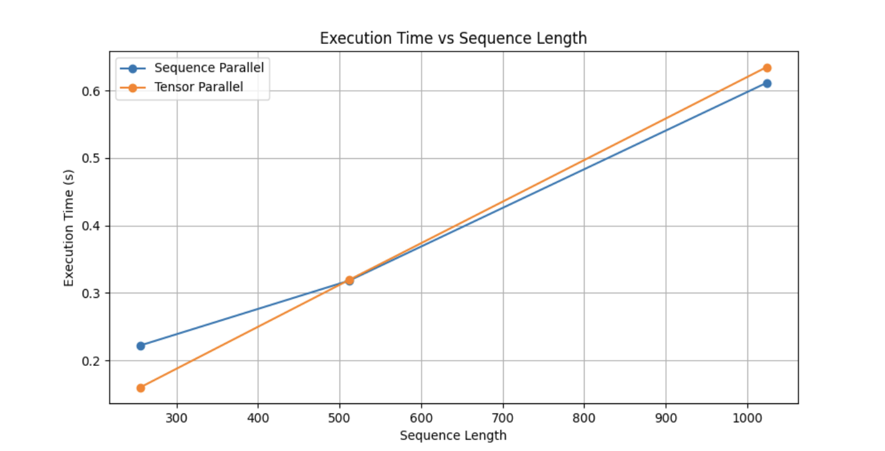
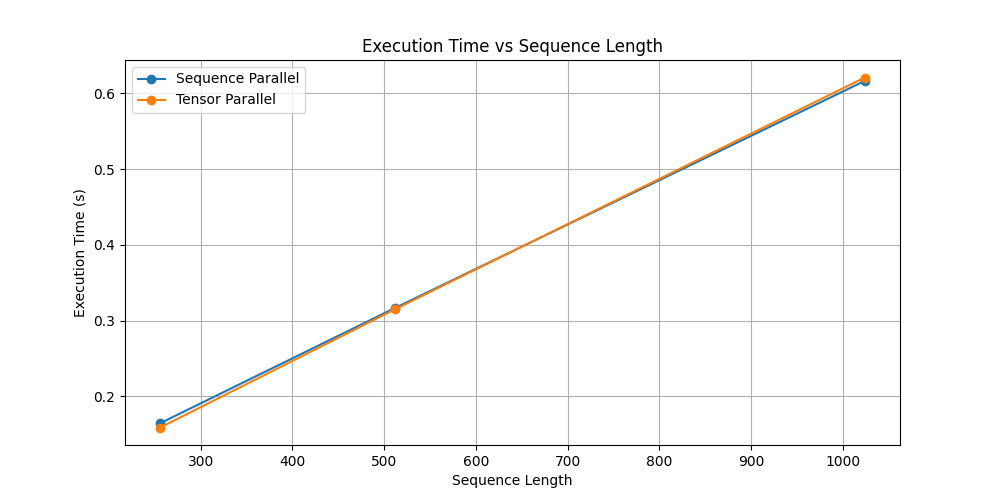
Update plots to mirror increased computational resources

Changed region(s): [[0.061, 0.0621, 0.9153, 0.9933], [0.4271, 0.5588, 0.4576, 0.5898]]

diff --git a/tests/distributed/test_tp_sp_distributed_cluster.py b/tests/distributed/test_tp_sp_distributed_cluster.py
@@ -195,7 +195,7 @@ if __name__ == "__main__":
     tp_times, tp_mem_allocated, tp_mem_reserved = run_tensor_parallel_benchmark()
 
     seq_length = [256, 512, 1024]
-    output_dir = "distributed_tests_plots"
+    output_dir = "assets"
     os.makedirs(output_dir, exist_ok=True)
 
     # Plot: Execution time
@@ -207,7 +207,7 @@ if __name__ == "__main__":
     plt.ylabel('Execution Time (s)')
     plt.legend()
     plt.grid(True)
-    plt.savefig(os.path.join(output_dir, 'execution_time_vs_seq_length.png'))
+    plt.savefig(os.path.join(output_dir, 'execution_time_vs_seq_length_gpu_l40.png'))
     plt.close()
 
     # Plot: Memory allocated
@@ -219,7 +219,7 @@ if __name__ == "__main__":
     plt.ylabel('Memory Allocated (GB)')
     plt.legend()
     plt.grid(True)
-    plt.savefig(os.path.join(output_dir, 'memory_allocated_vs_seq_length.png'))
+    plt.savefig(os.path.join(output_dir, 'memory_allocated_vs_seq_length_gpu_l40.png'))
     plt.close()
 
     # Plot: Memory reserved
@@ -231,5 +231,5 @@ if __name__ == "__main__":
     plt.ylabel('Memory Reserved (GB)')
     plt.legend()
     plt.grid(True)
-    plt.savefig(os.path.join(output_dir, 'memory_reserved_vs_seq_length.png'))
+    plt.savefig(os.path.join(output_dir, 'memory_reserved_vs_seq_length_gpu_l40.png'))
     plt.close()
